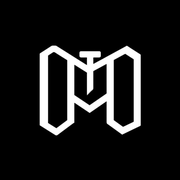
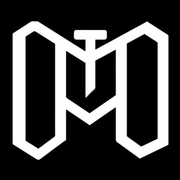
Yangicha dizayn

diff --git a/frontend/public/index.html b/frontend/public/index.html
@@ -4,10 +4,10 @@
 <meta charset="UTF-8">
 <meta name="viewport" content="width=device-width, initial-scale=1.0">
 <title>MTshop</title>
-<link rel="icon" type="image/x-icon" href="/favicon.ico">
-<link rel="icon" type="image/png" sizes="32x32" href="/favicon-32.png">
-<link rel="icon" type="image/png" sizes="192x192" href="/favicon-192.png">
-<link rel="apple-touch-icon" href="/apple-touch-icon.png">
+<link rel="icon" type="image/x-icon" href="/favicon.ico?v=2">
+<link rel="icon" type="image/png" sizes="32x32" href="/favicon-32.png?v=2">
+<link rel="icon" type="image/png" sizes="192x192" href="/favicon-192.png?v=2">
+<link rel="apple-touch-icon" href="/apple-touch-icon.png?v=2">
 <!-- MTshop Liquid Glass v2: 3-item navigation + elastic active glass indicator -->
 <style>
   /* Tugmalar bosilganda ko'k ramka (focus halqasi) chiqmasin */
@@ -1384,10 +1384,12 @@
   .modal-overlay.page.split .page-head-inner { max-width: none; margin: 0; }
   .modal-overlay.page.split .page-head-title { padding-left: 380px; }
   @media (min-width: 1000px) {
-    header { padding-left: max(18px, calc((100% - 1160px) / 2)); padding-right: max(18px, calc((100% - 1160px) / 2)); }
-    main { padding-left: max(18px, calc((100% - 1160px) / 2)); padding-right: max(18px, calc((100% - 1160px) / 2)); }
-    :root { --card-min: 190px; }
-    html[data-density="compact"] { --card-min: 150px; }
+    header { padding-left: max(28px, calc((100% - 1480px) / 2)); padding-right: max(28px, calc((100% - 1480px) / 2)); }
+    main { padding-left: max(28px, calc((100% - 1480px) / 2)); padding-right: max(28px, calc((100% - 1480px) / 2)); }
+    :root { --card-min: 176px; --card-gap: 16px; }
+    html[data-density="compact"] { --card-min: 140px; }
+    .gift-card { padding: 12px; }
+    .gift-name { font-size: 13.5px; }
     .modal-overlay:not(.page) { align-items: center; padding: 24px; }
     .modal-overlay:not(.page) .modal-wrap { margin-bottom: 0; max-width: 520px; }
     .modal-overlay.page #modalBody { max-width: 680px; }
@@ -1419,6 +1421,36 @@
     .btn:not(:disabled):hover, .cw-next:not(:disabled):hover { filter: brightness(1.1); }
     .st-row:hover { background: var(--w60); }
     .page-back-btn:hover { transform: scale(1.08); }
+  }
+
+  /* ===== Chrome'ning standart scrollbar'i o'rniga: ingichka, yumaloq, sayt rangiga mos ===== */
+  ::-webkit-scrollbar { width: 12px; height: 12px; background: transparent; }
+  ::-webkit-scrollbar-button { display: none; width: 0; height: 0; }
+  ::-webkit-scrollbar-corner { background: transparent; }
+  ::-webkit-scrollbar-track { background: transparent; margin: 8px 0; }
+  ::-webkit-scrollbar-thumb {
+    background: rgba(var(--accent2-rgb), .30); border-radius: 999px;
+    border: 4px solid transparent; background-clip: padding-box; min-height: 56px;
+    transition: background-color .2s ease;
+  }
+  ::-webkit-scrollbar-thumb:hover { background: rgba(var(--accent2-rgb), .55); border-width: 3px; background-clip: padding-box; }
+  ::-webkit-scrollbar-thumb:active { background: rgba(var(--accent2-rgb), .75); border-width: 3px; background-clip: padding-box; }
+  @supports not selector(::-webkit-scrollbar) {
+    * { scrollbar-width: thin; scrollbar-color: rgba(var(--accent2-rgb), .4) transparent; }
+  }
+  /* Sotib olish oynasi: telefonda oddiy ustun, kompyuterda chapda rasm, o'ngda sotib olish qismi */
+  .buy-split, .buy-side { display: block; min-width: 0; }
+  @media (min-width: 1000px) {
+    .modal-overlay:not(.page) .modal-wrap:has(.buy-split) { max-width: 640px; }
+    .buy-split { display: grid; grid-template-columns: 210px 1fr; gap: 30px; align-items: center; padding: 4px 6px 2px; }
+    .buy-split .buy-pop { padding: 0; }
+    .buy-split .buy-pop img, .buy-split .buy-pop .bp-icon-fallback { width: 168px; height: 168px; margin-bottom: 16px; border-radius: 22px; }
+    .buy-split .buy-pop .win-title { font-size: 20px; }
+    .buy-split .buy-pop .modal-sub { margin-bottom: 6px; }
+    .buy-split .buy-side .variant-row { margin-top: 0; }
+    .buy-split .buy-side .qty-row { margin-top: 0; justify-content: flex-start; }
+    .buy-split .buy-side .modal-sub { text-align: left !important; }
+    .buy-split .buy-side .btn { width: 100%; }
   }
   /* ===== Bildirishnomalar markazi ===== */
   .hdr-right { display: flex; align-items: center; gap: 10px; }
@@ -2229,6 +2261,8 @@ window.MTP = (function () {
       if (scroller) {
         // Sahifa allaqachon ochiq: faqat ichini almashtiramiz, tugmalar joyida qoladi (animatsiyasi uzilmaydi)
         document.querySelectorAll('.cw-seg').forEach((el, i) => { el.className = 'cw-seg ' + segCls(i); });
+        const cwBtn = document.querySelector('.cw-back');
+        if (cwBtn) { cwBtn.innerHTML = cwBackIcon(); cwBtn.setAttribute('aria-label', cw.step > 0 ? 'Orqaga' : 'Yopish'); }
         scroller.className = 'cw-scroll'; void scroller.offsetWidth;
         if (cw.dir !== 'none') scroller.classList.add(cw.dir);
         scroller.scrollTop = 0;
@@ -2241,7 +2275,7 @@ window.MTP = (function () {
           <div class="cw cw-open">
             <div class="cw-prog-wrap"><div class="cw-prog">${CW_STEPS.map((_, i) => `<div class="cw-seg ${segCls(i)}" onclick="cwGoStep(${i})"></div>`).join('')}</div></div>
             <div class="cw-head">
-              <button class="page-back-btn cw-back" onclick="cwBack()" aria-label="Orqaga"><svg width="20" height="20" viewBox="0 0 24 24" fill="none" stroke="currentColor" stroke-width="2.6" stroke-linecap="round" stroke-linejoin="round"><polyline points="15 18 9 12 15 6"/></svg></button>
+              <button class="page-back-btn cw-back" onclick="cwBack()" aria-label="${cw.step > 0 ? 'Orqaga' : 'Yopish'}">${cwBackIcon()}</button>
               <div class="cw-head-title">Kredit olish</div><div class="cw-head-sp"></div>
             </div>
             <div class="cw-scroll" id="cwScroll">
@@ -2279,6 +2313,12 @@ window.MTP = (function () {
       if (nb && !nb.disabled) { e.preventDefault(); cwNext(); }
     });
 
+    // 1-bosqichda "X" (oynani yopish), keyingi bosqichlarda "<" (bitta orqaga)
+    function cwBackIcon() {
+      return cw && cw.step > 0
+        ? '<svg width="20" height="20" viewBox="0 0 24 24" fill="none" stroke="currentColor" stroke-width="2.6" stroke-linecap="round" stroke-linejoin="round"><polyline points="15 18 9 12 15 6"/></svg>'
+        : '<svg width="20" height="20" viewBox="0 0 24 24" fill="none" stroke="currentColor" stroke-width="2.6" stroke-linecap="round" stroke-linejoin="round"><path d="M6 6l12 12M18 6L6 18"/></svg>';
+    }
     function cwBack() {
       if (!cw) { closeModal(); return; }
       const btn = document.querySelector('.cw-back');
@@ -5669,6 +5709,8 @@ window.MTP = (function () {
       const scroller = document.getElementById('gwScroll');
       if (scroller) {
         document.querySelectorAll('.cw-seg').forEach((el, i) => { el.className = 'cw-seg ' + segCls(i); });
+        const cwBtn = document.querySelector('.cw-back');
+        if (cwBtn) { cwBtn.innerHTML = cwBackIcon(); cwBtn.setAttribute('aria-label', cw.step > 0 ? 'Orqaga' : 'Yopish'); }
         scroller.className = 'cw-scroll'; void scroller.offsetWidth;
         if (gw.dir !== 'none') scroller.classList.add(gw.dir);
         scroller.scrollTop = 0;
@@ -5785,12 +5827,14 @@ window.MTP = (function () {
       window.__giftSel = { giftId: g.id, variantId: sel ? sel.id : null };
 
       document.getElementById('modalBody').innerHTML = `
+        <div class="buy-split">
         <div class="buy-pop">
           ${media}
           <div class="win-title">${cur.name}</div>
           ${g.event_ribbon && g.event_ribbon.name ? `<div class="modal-sub" style="font-weight:700;">🎉 ${esc(g.event_ribbon.name)}</div>` : ''}
           <div class="modal-sub"><img class="cn" src="icons/coin.png" alt="coin"> ${cur.price} &middot; ${g.quantity === null ? 'Cheksiz' : (g.sold_out ? 'Tugagan' : 'Qoldi: ' + g.quantity)}</div>
         </div>
+        <div class="buy-side">
         ${chips}
         ${g.sold_out ? `
         <button class="btn" style="margin-top:14px" disabled>Qolmagan</button>
@@ -5803,6 +5847,8 @@ window.MTP = (function () {
         <div class="modal-sub" style="text-align:center; margin-top:6px;" id="giftQtyTotal">Jami: <img class="cn" src="icons/coin.png" alt="coin"> ${cur.price}</div>
         <button class="btn" style="margin-top:14px" onclick="confirmBuyGift(${g.id})">Sotib olish</button>
         `}
+        </div>
+        </div>
       `;
       window.__giftUnitPrice = cur.price;
       if (!document.getElementById('modalOverlay').classList.contains('open')) openModal();

diff --git a/frontend/public/login.html b/frontend/public/login.html
@@ -4,10 +4,10 @@
 <meta charset="UTF-8">
 <meta name="viewport" content="width=device-width, initial-scale=1.0">
 <title>MTshop — Kirish</title>
-<link rel="icon" type="image/x-icon" href="/favicon.ico">
-<link rel="icon" type="image/png" sizes="32x32" href="/favicon-32.png">
-<link rel="icon" type="image/png" sizes="192x192" href="/favicon-192.png">
-<link rel="apple-touch-icon" href="/apple-touch-icon.png">
+<link rel="icon" type="image/x-icon" href="/favicon.ico?v=2">
+<link rel="icon" type="image/png" sizes="32x32" href="/favicon-32.png?v=2">
+<link rel="icon" type="image/png" sizes="192x192" href="/favicon-192.png?v=2">
+<link rel="apple-touch-icon" href="/apple-touch-icon.png?v=2">
 <style>
   /* Tugmalar bosilganda ko'k ramka (focus halqasi) chiqmasin */
   * { -webkit-tap-highlight-color: transparent; }

diff --git a/frontend/public/admin.html b/frontend/public/admin.html
@@ -4,10 +4,10 @@
 <meta charset="UTF-8">
 <meta name="viewport" content="width=device-width, initial-scale=1.0">
 <title>MTshop — Admin</title>
-<link rel="icon" type="image/x-icon" href="/favicon.ico">
-<link rel="icon" type="image/png" sizes="32x32" href="/favicon-32.png">
-<link rel="icon" type="image/png" sizes="192x192" href="/favicon-192.png">
-<link rel="apple-touch-icon" href="/apple-touch-icon.png">
+<link rel="icon" type="image/x-icon" href="/favicon.ico?v=2">
+<link rel="icon" type="image/png" sizes="32x32" href="/favicon-32.png?v=2">
+<link rel="icon" type="image/png" sizes="192x192" href="/favicon-192.png?v=2">
+<link rel="apple-touch-icon" href="/apple-touch-icon.png?v=2">
 <style>
   /* Tugmalar bosilganda ko'k ramka (focus halqasi) chiqmasin */
   * { -webkit-tap-highlight-color: transparent; }
